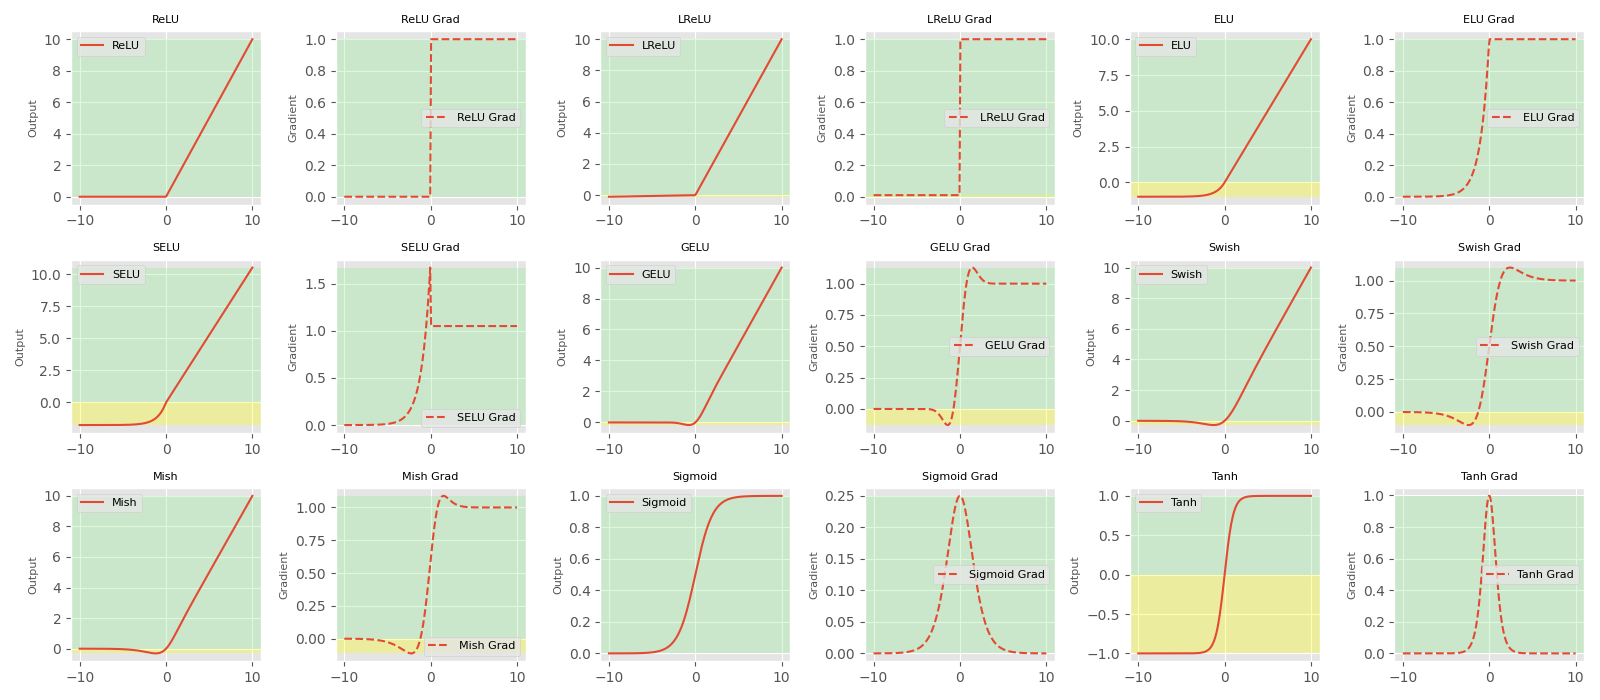
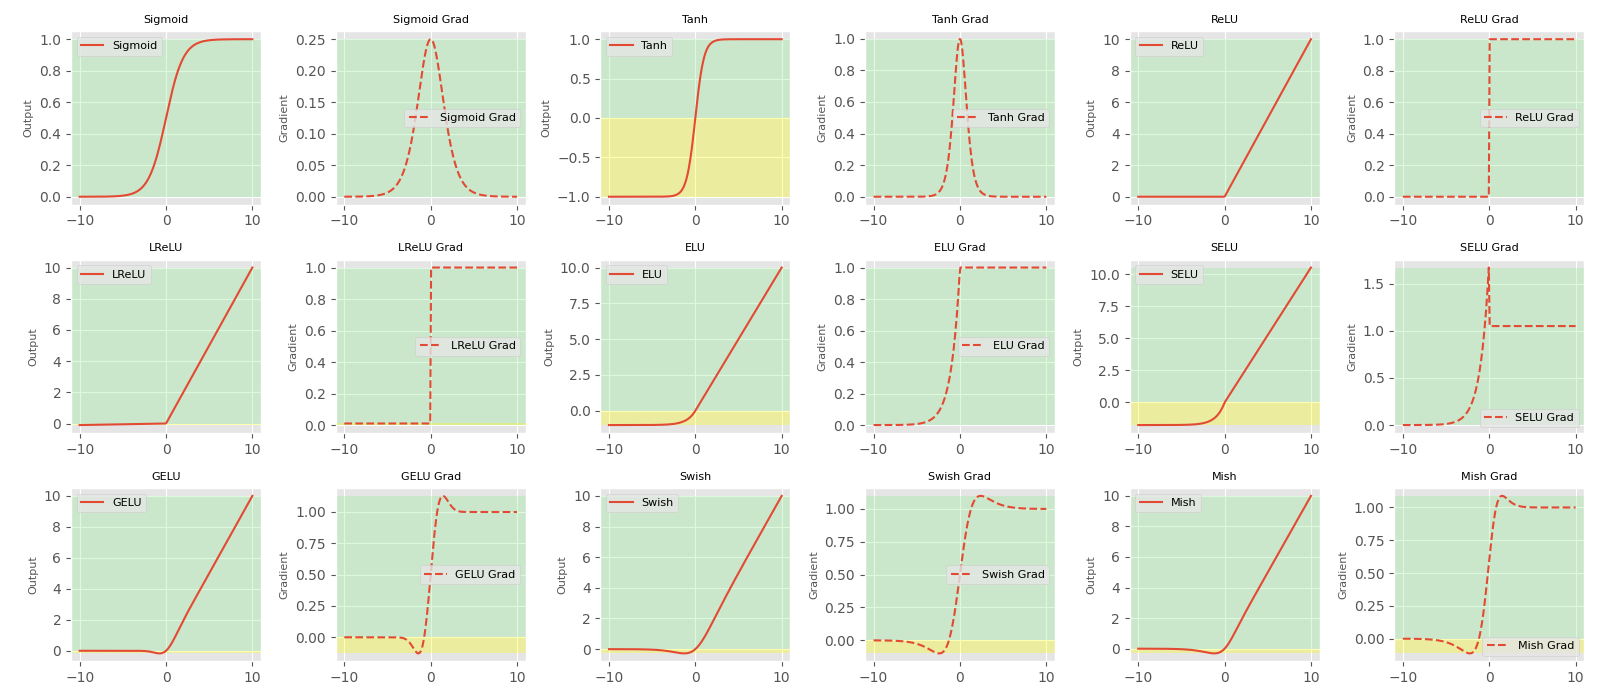
activation

diff --git a/source/ch12-train/draw_activation_subplots.py b/source/ch12-train/draw_activation_subplots.py
@@ -65,6 +65,8 @@ x = np.linspace(-10, 10, 200)
 plt.style.use('ggplot')
 # Activation functions and their gradients
 functions = [
+    (sigmoid, 'Sigmoid'),
+    (tanh, 'Tanh'),
     (relu, 'ReLU'),
     (leaky_relu, 'LReLU'),
     (elu, 'ELU'),
@@ -72,8 +74,6 @@ functions = [
     (gelu, 'GELU'),
     (swish, 'Swish'),
     (mish, 'Mish'),
-    (sigmoid, 'Sigmoid'),
-    (tanh, 'Tanh')
 ]
 # Prepare the figure and subplots
 fig, axes = plt.subplots(3, 6, figsize=(16, 7))
